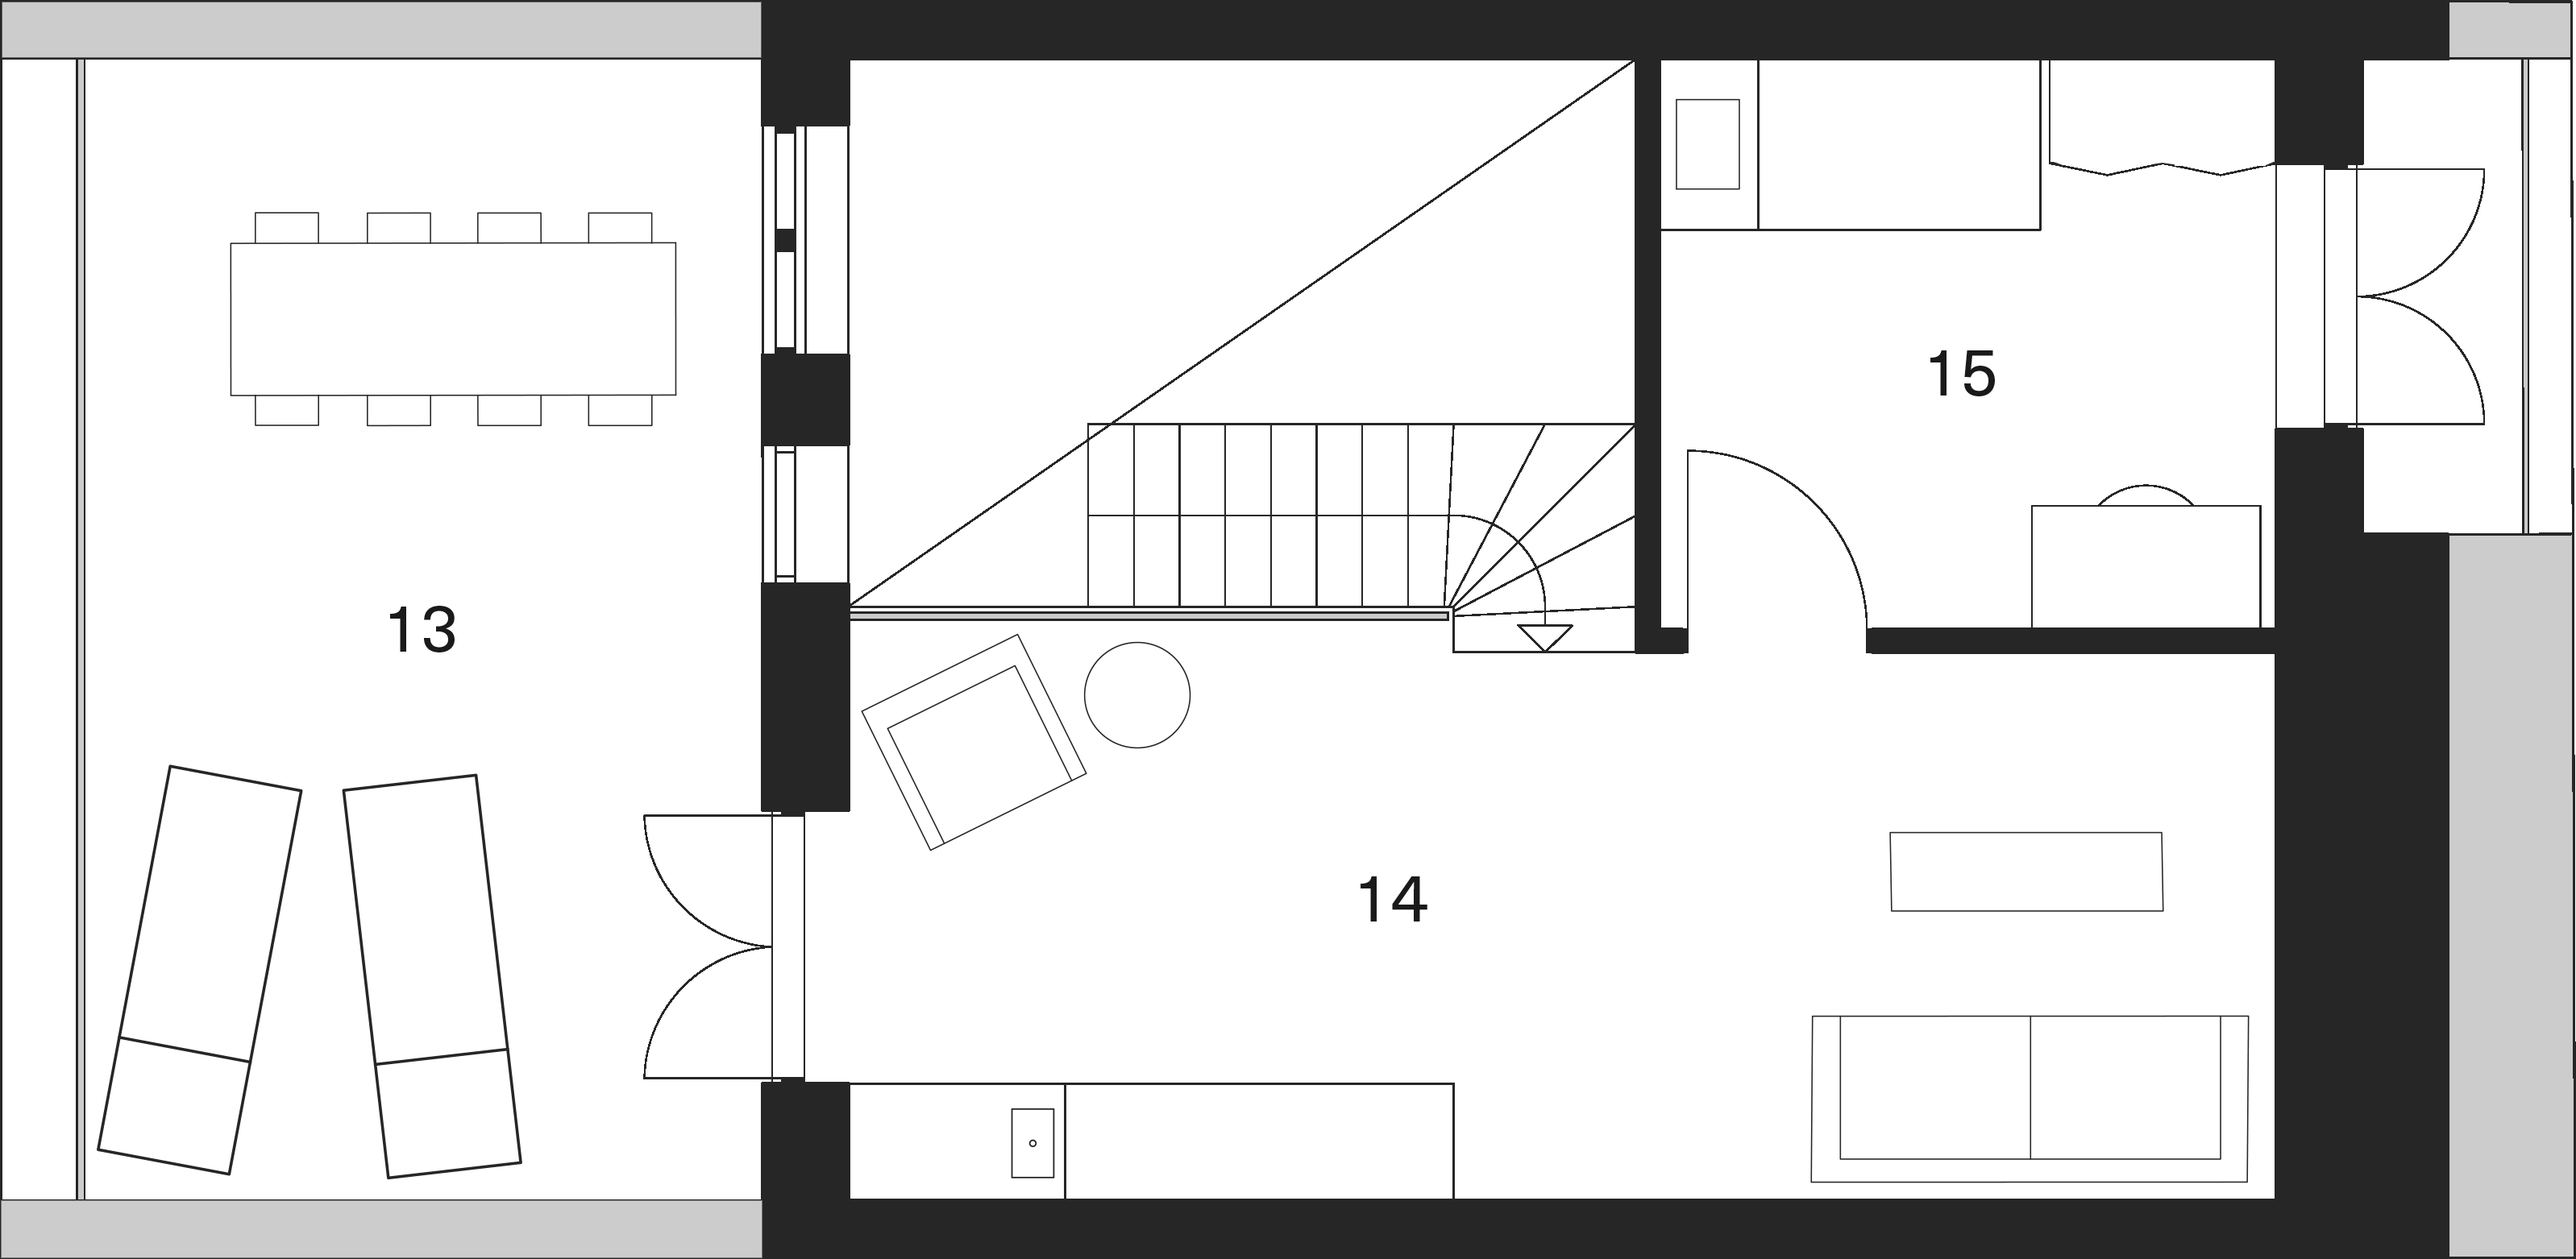
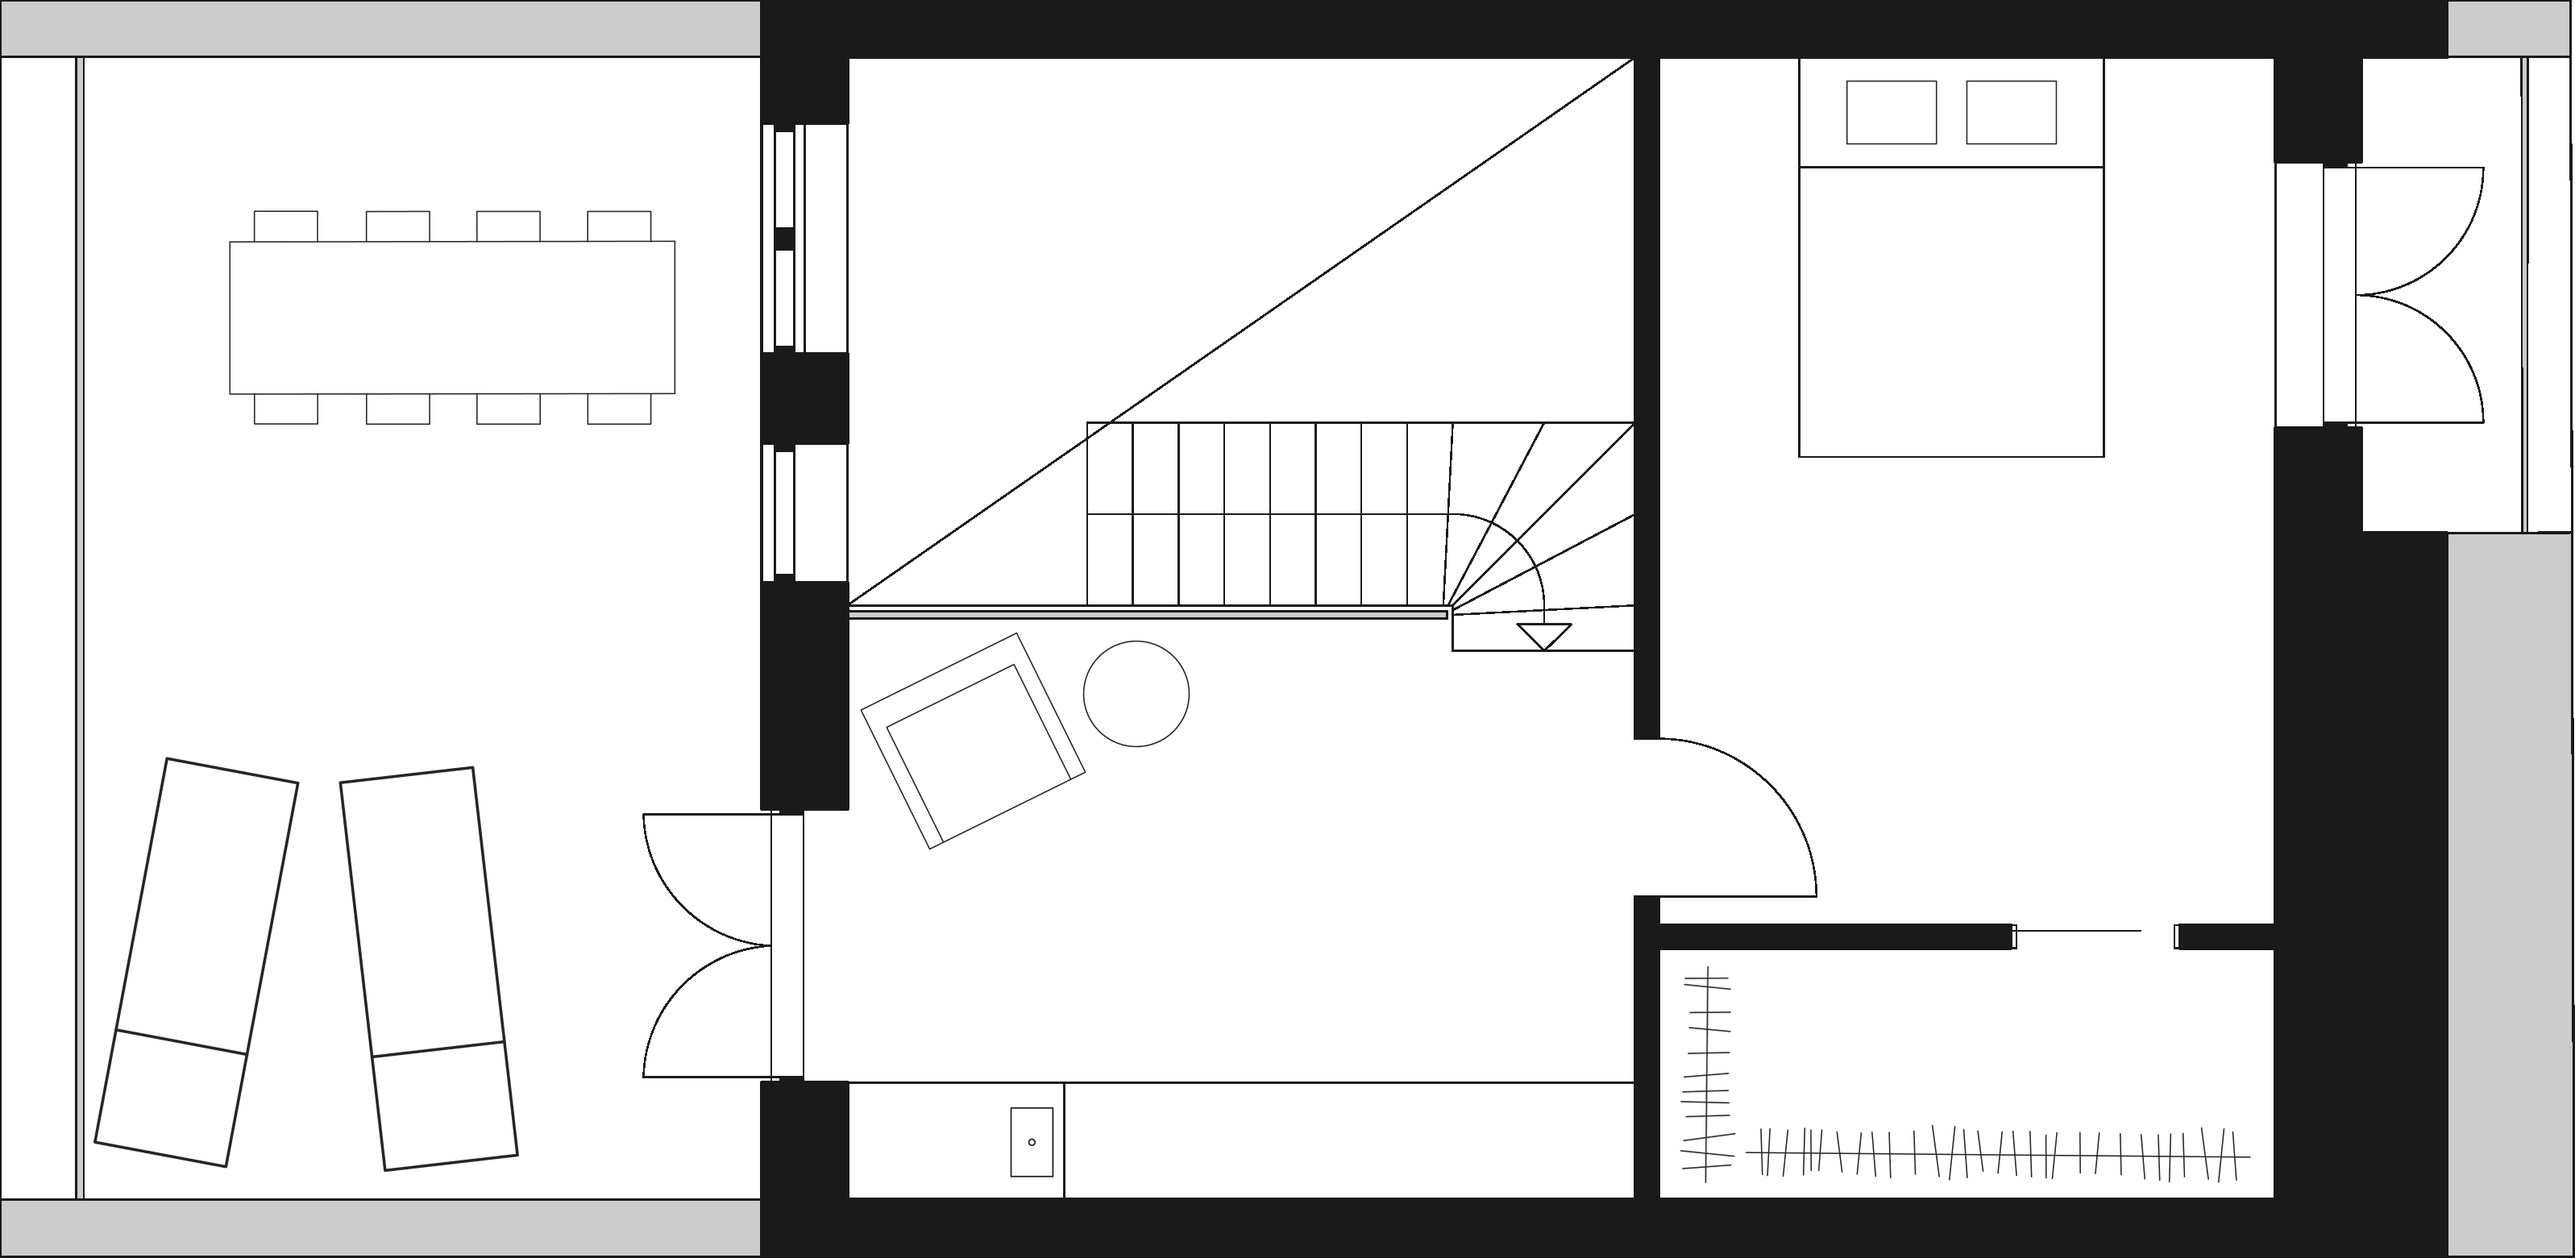
Project sites

diff --git a/src/content/projects/optimerade-strukturer-at3.md b/src/content/projects/optimerade-strukturer-at3.md
@@ -1,17 +1,20 @@
 ---
-title: "Lamp"
-year: "2024"
-category: "Design, Grasshopper"
+title: "Frosted Steel"
+year: "2025"
+category: "Conceptual development, grasshopper"
 location: "Mossen, Gothenburg"
 groupProject: 1;
-heroImage: "/projects/optimerade-strukturer-at3/optimerade-rendering1.jpg"
+heroImage: "/projects/optimerade-strukturer-at3/rendering.jpg"
 gallery: 
-    -   src: "/projects/optimerade-strukturer-at3/optimerade-rendering1.jpg"
-        imgDesc: "Perspektiv"
-    -   src: "/projects/optimerade-strukturer-at3/optimerade-rendering1.jpg"
-        imgDesc: "Exteriört perspektiv"
-    -   src: "/projects/optimerade-strukturer-at3/optimerade-rendering1.jpg"
-        imgDesc: "rendering"
-    
+    -   src: "/projects/optimerade-strukturer-at3/referens1.jpg"
+        imgDesc: "Reference - Light through frost cristals"
+    -   src: "/projects/optimerade-strukturer-at3/referens2.jpg"
+        imgDesc: "Claude Monet - Frost at Giverny"
+    -   src: "/projects/optimerade-strukturer-at3/referens3.jpg"
+        imgDesc: "Morning frost in Gothenburg"
+    -   src: "/projects/optimerade-strukturer-at3/collage.png"
+        imgDesc: "Collage describing phenomenon"
+    -   src: "/projects/optimerade-strukturer-at3/axonometri.png"
+        imgDesc: "Structural system"
 ---
-Utforskande av fenomenet rimfrost, frosten klär hängande metallstavar vilka omsluter besökaren och skapar ett ljusspel i morgonsolen.
+An experiment on capturing frost and light to be observed through a structure.

diff --git a/src/content/projects/radhus-at2.md b/src/content/projects/radhus-at2.md
@@ -1,13 +1,29 @@
 ---
-title: "Gibraltargatan"
+title: "Gibraltar Townhouse"
 year: "2025"
 category: "Townhouse"
 location: "Gibraltargatan, Gothenburg"
 groupProject: 0;
-heroImage: "/projects/radhus-at2/material.png"
-gallery: 
-    -   src: "/projects/radhus-at2/fasad_fram.png"
-        imgDesc: "Street Elevation"
+heroImage: "/projects/radhus-at2/fasad_fram.png"
+gallery:
+    -   src: "/projects/radhus-at2/model1.jpg"
+        imgDesc: "Wood volume model"
+    -   src: "/projects/radhus-at2/skiss_fasad.png"
+        imgDesc: "Wood volume model"
+    -   src: "/projects/radhus-at2/situationsplan.png"
+        imgDesc: "Context plan"
+    -   src: "/projects/radhus-at2/plan1.png"
+        imgDesc: "Plan 1"
+    -   src: "/projects/radhus-at2/plan2.png"
+        imgDesc: "Plan 2"
+    -   src: "/projects/radhus-at2/plan3.png"
+        imgDesc: "Plan 3"
+    -   src: "/projects/radhus-at2/section.png"
+        imgDesc: "Section"
+    -   src: "/projects/radhus-at2/interior.png"
+        imgDesc: "Interior perspective"
+    -   src: "/projects/radhus-at2/fasad_bak.png"
+        imgDesc: "Elevation - Forest"
 ---
 
 A residential project focusing on livability, spacial qualities and climate calculations.

diff --git a/src/content/projects/cafe-at1.md b/src/content/projects/cafe-at1.md
@@ -1,13 +1,27 @@
 ---
 title: "Café Slottskogen"
 year: "2023"
-category: "Cafe"
+category: "Hand-drawn"
 location: "Slottskogen, Gothenburg"
 groupProject: 0;
-heroImage: "/projects/cafe-at1/modell_sida.png"
+heroImage: "/projects/cafe-at1/modell_sida.jpg"
 gallery: 
-    -   src: "/projects/radhus-at2/fasad_fram.png"
-        imgDesc: "Street Elevation"
+    -   src: "/projects/cafe-at1/sitplan.jpg"
+        imgDesc: "Context Plan"
+    -   src: "/projects/cafe-at1/plan.jpg"
+        imgDesc: ""
+    -   src: "/projects/cafe-at1/fasad_fram.jpg"
+        imgDesc: ""
+    -   src: "/projects/cafe-at1/fasad_sida.jpg"
+        imgDesc: ""
+    -   src: "/projects/cafe-at1/sektionAA.jpg"
+        imgDesc: ""
+    -   src: "/projects/cafe-at1/sektionBB.jpg"
+        imgDesc: ""
+    -   src: "/projects/cafe-at1/perspektiv.jpg"
+        imgDesc: "Interior Perspektive"
+    -   src: "/projects/cafe-at1/modell_fram.jpg"
+        imgDesc: ""
 ---
 
 My introduction to architecture in school, first drawn project.

diff --git a/src/content/projects/parametrisk-design-at2.md b/src/content/projects/parametrisk-design-at2.md
@@ -1,18 +1,15 @@
 ---
-title: "Lamp"
+title: "Plates Lamp"
 year: "2024"
-category: "Design, Grasshopper"
-location: "Mossen, Gothenburg"
+category: "Grasshopper, Manufacturing"
+location: " "
 groupProject: 1;
 heroImage: "/projects/parametrisk-design-at2/lamp.jpg"
 gallery: 
-    -   src: "/projects/parametrisk-design-at2/lamp.jpg"
-        imgDesc: "Lampa"
-    -   src: "/projects/parametrisk-design-at2/lamp.jpg"
-        imgDesc: "Lampa 2"
-    -   src: "/projects/parametrisk-design-at2/lamp.jpg"
-        imgDesc: "Lampa 3"
-    
+    -   src: "/projects/parametrisk-design-at2/lamp_iso.png"
+        imgDesc: ""
+    -   src: "/projects/parametrisk-design-at2/lamp_code.png"
+        imgDesc: "Grasshopper script"
 ---
 
-Lampa ritad i rhino med hjälp av grasshopper, därefter tillverkad av laserskuren plywood, akryl.
+Lamp designed using grasshopper, manufactured by plywood and acrylic using laser. 

diff --git a/src/content/projects/badhus-at2.md b/src/content/projects/badhus-at2.md
@@ -1,14 +1,14 @@
 ---
 title: "Torslanda Bath"
 year: "2025"
-category: "Swimming Hall"
+category: "Structural design, grasshopper"
 location: "Torslanda, Gothenburg"
 groupProject: 1;
 heroImage: "/projects/badhus-at2/rendering_exteriör.png"
 gallery: 
-    -   src: "/projects/badhus-at2/sitplan.png"
+    -   src: "/projects/badhus-at2/Sitplan.png"
         imgDesc: "Context plan"
-    -   src: "/projects/badhus-at2/plan0.png"
+    -   src: "/projects/badhus-at2/plan.png"
         imgDesc: ""
     -   src: "/projects/badhus-at2/sektion_l.png"
         imgDesc: "Section A-A"
